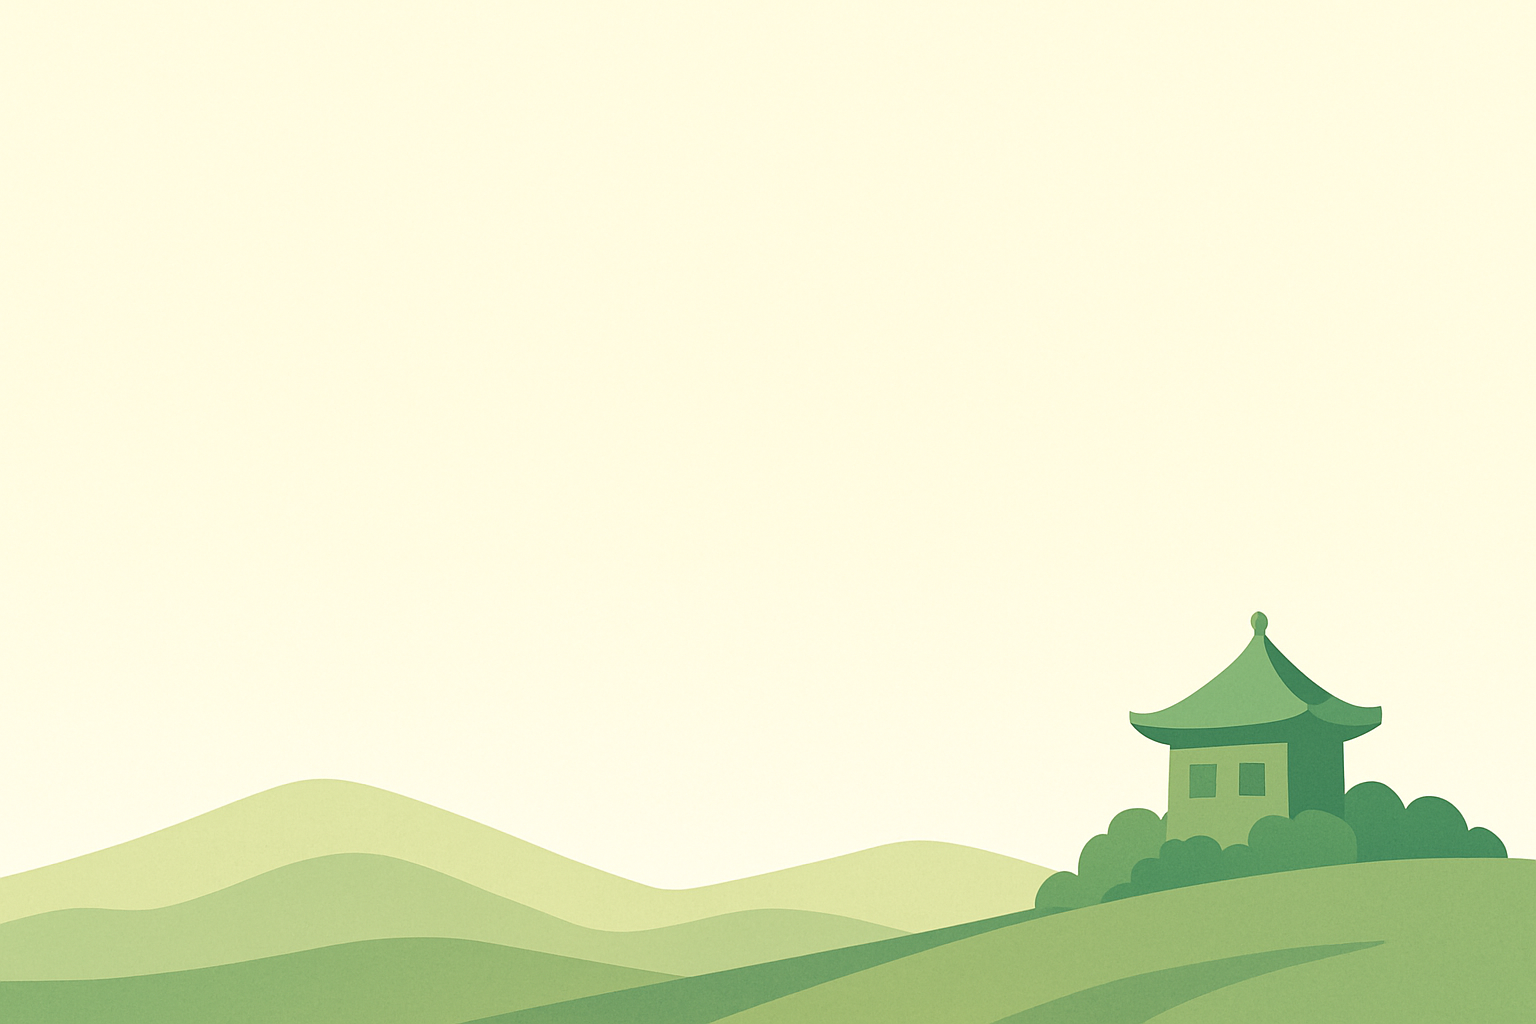
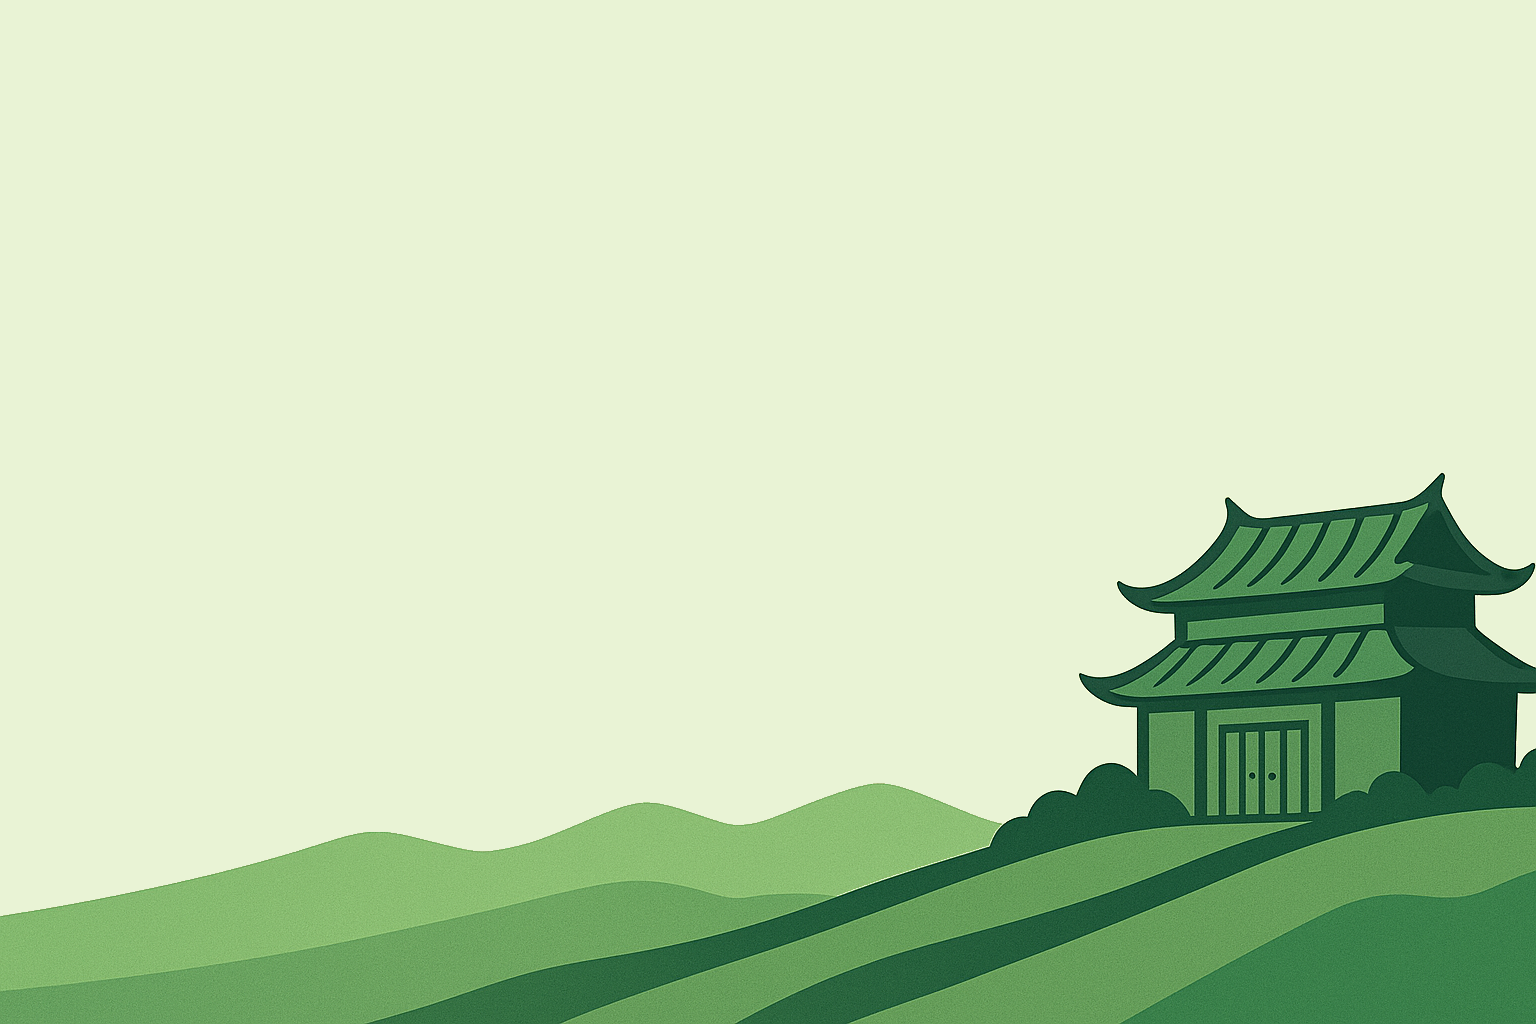
WIP: playground. Home, sign up page, login page done.

Changed region(s): [[0.0, 0.4688, 1.0, 1.0]]

diff --git a/frontend/src/pages/SignUpPage.jsx b/frontend/src/pages/SignUpPage.jsx
@@ -5,10 +5,10 @@ export default function SignUpPage() {
   const [email, setEmail] = useState("");
   const [username, setUsername] = useState("");
   const [password, setPassword] = useState("");
-  const [passwordRepeat, setpasswordRepeat] = useState("");
+  const [passwordConfirm, setpasswordConfirm] = useState("");
   const handleForm = async (e) => {
     e.preventDefault();
-    if (password !== passwordRepeat) {
+    if (password !== passwordConfirm) {
       alert("Passwords do not match");
       return;
     } else {
@@ -24,7 +24,7 @@ export default function SignUpPage() {
         <form className="signup_form">
           <input
             type="email"
-            placeholder="Enter your email"
+            placeholder="Email"
             size="30"
             required
             value={email}
@@ -33,7 +33,7 @@ export default function SignUpPage() {
           <br />
           <input
             type="text"
-            placeholder="Enter your username"
+            placeholder="Username"
             size="30"
             required
             value={username}
@@ -42,7 +42,7 @@ export default function SignUpPage() {
           <br />
           <input
             type="password"
-            placeholder="Enter password"
+            placeholder="Password"
             size="30"
             required
             value={password}
@@ -51,11 +51,11 @@ export default function SignUpPage() {
           <br />
           <input
             type="password"
-            placeholder="Repeat password"
+            placeholder="Confirm password"
             size="30"
             required
-            value={passwordRepeat}
-            onChange={(e) => setpasswordRepeat(e.target.value)}
+            value={passwordConfirm}
+            onChange={(e) => setpasswordConfirm(e.target.value)}
           ></input>
           <br />
           <button onClick={handleForm}>Sign Up</button>

diff --git a/frontend/src/pages/LogInPage.jsx b/frontend/src/pages/LogInPage.jsx
@@ -1,5 +1,45 @@
 import "./login.css";
+import { useState } from "react";
 
 export default function LoginPage() {
-  return <div className="login_container">this is the login</div>;
+  const [email, setEmail] = useState("");
+  const [username, setUsername] = useState("");
+  const [password, setPassword] = useState("");
+  const [passwordRepeat, setpasswordRepeat] = useState("");
+  const handleForm = async (e) => {
+    e.preventDefault();
+    if (password !== passwordRepeat) {
+      alert("Passwords do not match");
+      return;
+    } else {
+      //userRegistration(email,username,password)
+      //if(user) then alert success and navigate to some other page
+      alert("Successful sign up");
+    }
+  };
+  return (
+    <div className="login_container">
+      <form className="login_form">
+        <input
+          type="text"
+          placeholder="Email/Username"
+          size="30"
+          required
+          value={email}
+          onChange={(e) => setEmail(e.target.value)}
+        ></input>
+        <br />
+        <input
+          type="password"
+          placeholder="Password"
+          size="30"
+          required
+          value={password}
+          onChange={(e) => setPassword(e.target.value)}
+        ></input>
+        <br />
+        <button onClick={handleForm}>Log In</button>
+      </form>
+    </div>
+  );
 }

diff --git a/frontend/src/pages/PlaygroundPage.jsx b/frontend/src/pages/PlaygroundPage.jsx
@@ -1,5 +1,6 @@
 import "./playground.css";
 import * as monaco from "monaco-editor";
+import MonacoEditor from "../components/monacoEditor";
 
 import { useEffect, useState, useRef } from "react";
 
@@ -17,19 +18,6 @@ hello();`);
   //   useEffect(() => {
   //     console.log(codingLanguage);
   //   }, [codingLanguage]);
-
-  //create code editor once on render
-  useEffect(() => {
-    if (editorRef.current) return;
-    editorRef.current = monaco.editor.create(
-      document.getElementById("playground_code_container"),
-      {
-        value,
-        language: codingLanguage,
-        automaticLayout: true,
-      }
-    );
-  }, []);
 
   //handle coding language change
   useEffect(() => {
@@ -57,7 +45,9 @@ hello();`);
           <option value="python">Python</option>
         </select>
         <br />
-        <div id="playground_code_container"></div>
+        <div id="playground_code_container">
+          <MonacoEditor language={codingLanguage} />
+        </div>
         <div className="playground_prompt">
           <br />
           <label>What is your question</label>

diff --git a/frontend/src/pages/login.css b/frontend/src/pages/login.css
@@ -1,6 +1,34 @@
 .login_container {
   height: 90vh;
   width: 100%;
-  display: flex;
-  background-image: radial-gradient(#497849, #184936, black);
+  display:flex;
+  background-image: url("../assets/loginBackground.png");
+  background-size: cover;
+  background-position: 50% 70%;
+  align-content: center;
+}
+
+.login_form {
+  text-align: center;
+  padding-top:9vw;
+  width: 60%;
+}
+
+.login_form input,
+.login_form button {
+  font-size: 2.5vw;
+  color: black;
+}
+
+.login_form button {
+  background-color: #477647;
+  padding:10px;
+}
+
+.login_form input {
+  color: black;
+  border: 0;
+  border-bottom: 1px solid black;
+  margin: 10px;
+  background: local;
 }

diff --git a/frontend/src/pages/playground.css b/frontend/src/pages/playground.css
@@ -18,8 +18,7 @@
 #playground_code_container {
   height: 60vh;
   width: 100%;
-  border: 1px solid black;
-  background: greenyellow;
+  border: 1px solid green;
 }
 
 .playground_right_container {

diff --git a/frontend/src/pages/signup.css b/frontend/src/pages/signup.css
@@ -34,6 +34,7 @@
 
 .signup_form button {
   background-color: #477647;
+  padding: 10px;
 }
 
 .signup_form input {
